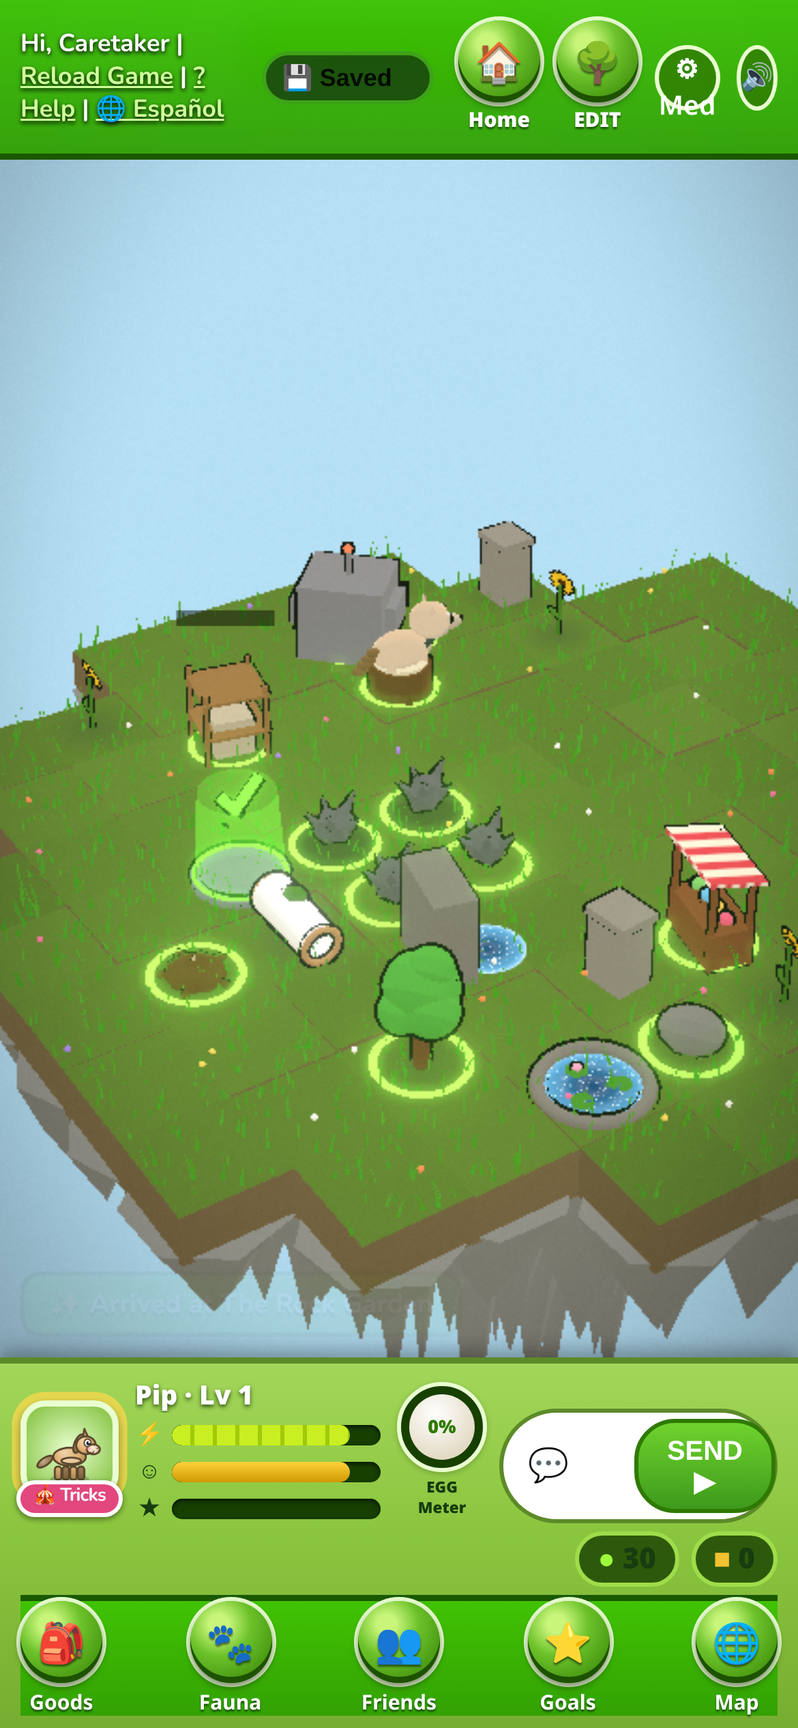
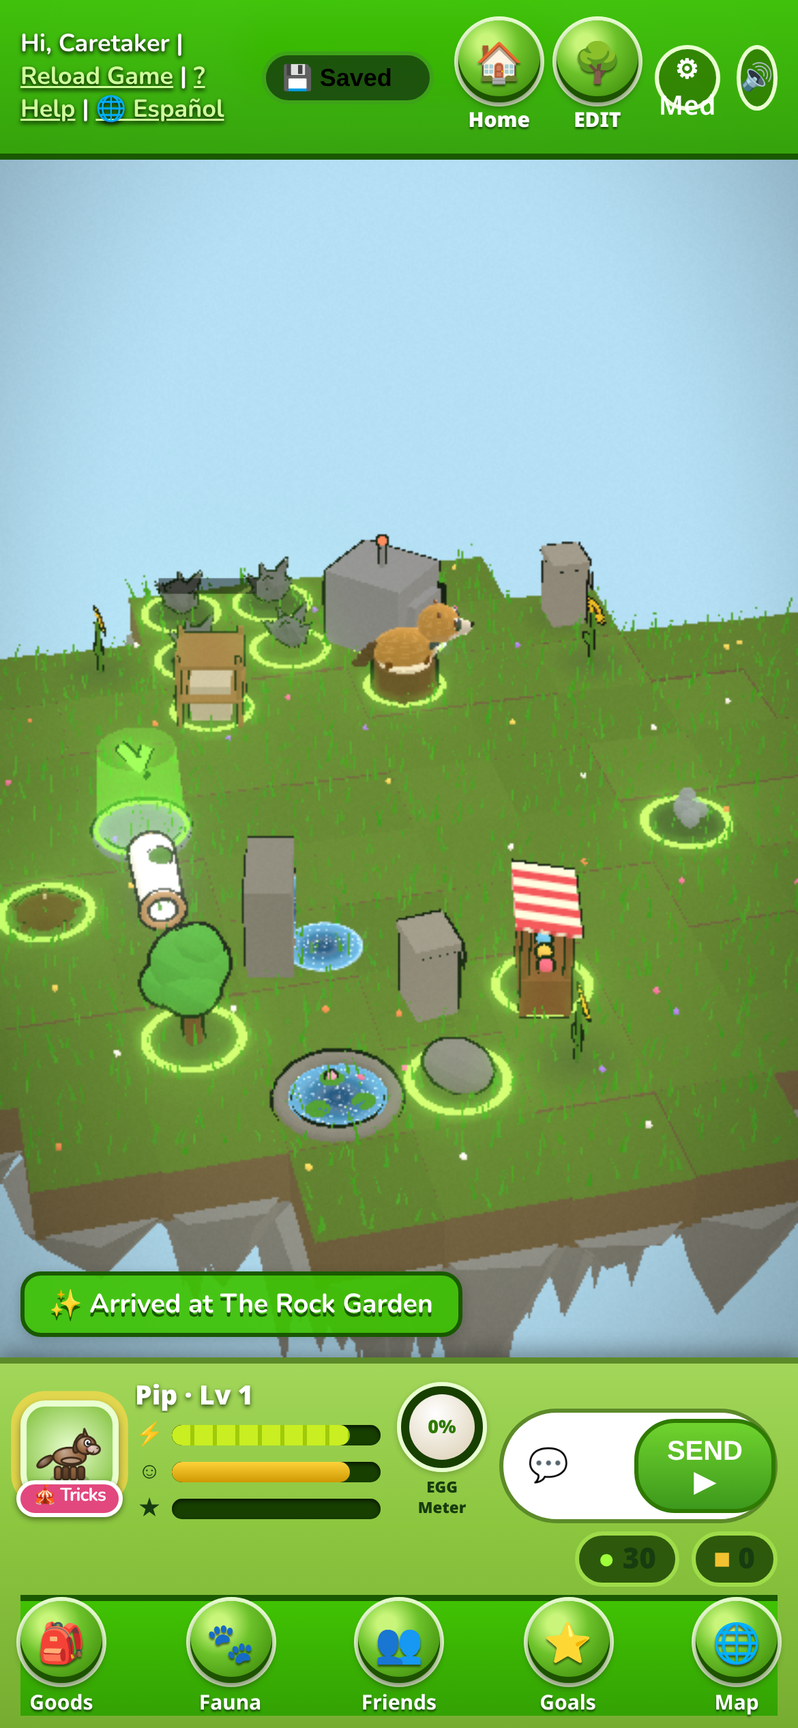
v6.0: realistic worlds inc1 (home+Rock Garden), High/Low graphics, wider home camera; sw fs-v6-1

diff --git a/world6.js b/world6.js
@@ -1,0 +1,73 @@
+// v6 realistic worlds (High graphics only). Home + Rock Garden first. Code-drawn textures only.
+import * as THREE from 'three';
+const G=window,W=G.W6,ON={home:1,rockgarden:1};
+if(W&&G.REAL){
+const {scene,QP,U}=W,hi=(G.GL&&G.GL.Q)==='high';
+const cvs=(w,h,f)=>{const c=document.createElement('canvas');c.width=w;c.height=h;f(c.getContext('2d'),w,h);const t=new THREE.CanvasTexture(c);t.colorSpace=THREE.SRGBColorSpace;t.anisotropy=4;return t};
+let rs=1;const rnd=()=>{rs=(rs*16807)%2147483647;return(rs-1)/2147483646};
+// --- textures ---
+const strata=cvs(256,128,(x,w,h)=>{for(let y=0;y<h;y++){const b=Math.sin(y*.21)*.5+Math.sin(y*.07+1)*.5;const l=38+b*9+(y<10?-6:0);x.fillStyle=`hsl(${26+b*6},${30-y*.08}%,${l-y*.06}%)`;x.fillRect(0,y,w,1)}
+ for(let k=0;k<900;k++){const px=Math.random()*w,py=Math.random()*h,r=.5+Math.random()*2.6;x.fillStyle=`hsla(30,12%,${30+Math.random()*40}%,.55)`;x.beginPath();x.ellipse(px,py,r*1.6,r,0,0,7);x.fill()}
+ x.fillStyle='rgba(70,120,40,.9)';for(let px=0;px<w;px+=2){x.fillRect(px,0,2,4+Math.random()*7)}
+ x.strokeStyle='rgba(60,40,25,.5)';for(let k=0;k<14;k++){x.beginPath();let px=Math.random()*w;x.moveTo(px,8);for(let py=8;py<40;py+=6){px+=Math.random()*6-3;x.lineTo(px,py)}x.stroke()}});
+strata.wrapS=strata.wrapT=THREE.RepeatWrapping;
+const rockTex=cvs(128,128,(x,w,h)=>{x.fillStyle='#8a8478';x.fillRect(0,0,w,h);for(let k=0;k<1500;k++){x.fillStyle=`hsla(${30+Math.random()*20},8%,${35+Math.random()*40}%,.35)`;x.fillRect(Math.random()*w,Math.random()*h,1+Math.random()*4,1+Math.random()*3)}
+ x.fillStyle='rgba(90,130,60,.35)';for(let k=0;k<60;k++){x.beginPath();x.arc(Math.random()*w,Math.random()*h*.4,2+Math.random()*5,0,7);x.fill()}});
+const bark=cvs(64,128,(x,w,h)=>{x.fillStyle='#5a4130';x.fillRect(0,0,w,h);for(let k=0;k<40;k++){x.strokeStyle=`hsla(25,25%,${15+Math.random()*25}%,.8)`;x.lineWidth=1+Math.random()*2;x.beginPath();let px=Math.random()*w;x.moveTo(px,0);for(let py=0;py<=h;py+=8){px+=Math.random()*4-2;x.lineTo(px,py)}x.stroke()}});
+const leaf=(hu)=>cvs(128,128,(x,w,h)=>{for(let k=0;k<700;k++){const px=Math.random()*w,py=Math.random()*h;x.fillStyle=`hsl(${hu+Math.random()*22},${45+Math.random()*25}%,${18+Math.random()*30+(1-py/h)*12}%)`;x.save();x.translate(px,py);x.rotate(Math.random()*6);x.beginPath();x.ellipse(0,0,5,2.4,0,0,7);x.fill();x.restore()}});
+const flowerTex=(pc,cc,np)=>cvs(64,128,(x,w,h)=>{x.strokeStyle='#3f7a2c';x.lineWidth=3;x.beginPath();x.moveTo(32,128);x.quadraticCurveTo(28,80,32,40);x.stroke();x.fillStyle='#4f8f34';x.beginPath();x.ellipse(24,92,9,4,-.6,0,7);x.fill();x.beginPath();x.ellipse(40,76,9,4,.6,0,7);x.fill();
+ for(let k=0;k<np;k++){const a=k/np*6.283;x.save();x.translate(32,34);x.rotate(a);const g=x.createLinearGradient(0,0,0,-20);g.addColorStop(0,cc);g.addColorStop(.25,pc);g.addColorStop(1,pc);x.fillStyle=g;x.beginPath();x.ellipse(0,-11,6,12,0,0,7);x.fill();x.restore()}
+ x.fillStyle=cc;x.beginPath();x.arc(32,34,5,0,7);x.fill();x.fillStyle='rgba(0,0,0,.2)';for(let k=0;k<6;k++)x.fillRect(29+Math.random()*6,31+Math.random()*6,1,1)});
+const turf=r=>cvs(128,128,(x,w,h)=>{x.fillStyle=r?'#7f8a52':'#5f8f3a';x.fillRect(0,0,w,h);for(let k=0;k<2500;k++){x.fillStyle=`hsl(${(r?60:85)+Math.random()*30},${35+Math.random()*25}%,${28+Math.random()*28}%)`;x.fillRect(Math.random()*w,Math.random()*h,1,2+Math.random()*3)}if(r){for(let k=0;k<50;k++){x.fillStyle=`hsl(35,10%,${50+Math.random()*25}%)`;x.beginPath();x.arc(Math.random()*w,Math.random()*h,1+Math.random()*2.5,0,7);x.fill()}}});
+const FT=[flowerTex('#ffd94a','#c9761a',12),flowerTex('#ff86b8','#ffe08a',6),flowerTex('#fbfbff','#f2c230',14),flowerTex('#a98bff','#fff1a0',5)];
+const cloudTex=cvs(256,128,(x,w,h)=>{for(let k=0;k<26;k++){const px=40+Math.random()*176,py=60+Math.random()*30-(Math.abs(px-128)<60?15:0),r=18+Math.random()*26;const g=x.createRadialGradient(px,py,0,px,py,r);g.addColorStop(0,'rgba(255,255,255,.85)');g.addColorStop(1,'rgba(255,255,255,0)');x.fillStyle=g;x.fillRect(0,0,w,h)}});
+const mtnTex=cvs(1024,128,(x,w,h)=>{const L=[[ '#9fb4cc',30,.45],['#7f97b3',55,.62],['#6d8a86',80,.8]];L.forEach(([c,base,amp],li)=>{x.fillStyle=c;x.beginPath();x.moveTo(0,h);for(let px=0;px<=w;px+=4){const y=base+Math.sin(px*.012+li*2)*18*amp+Math.sin(px*.041+li)*9*amp+Math.abs(Math.sin(px*.006+li*3))*-26*amp;x.lineTo(px,y)}x.lineTo(w,h);x.fill()});
+ const g=x.createLinearGradient(0,0,0,h);g.addColorStop(0,'rgba(220,234,245,0)');g.addColorStop(1,'rgba(220,234,245,.55)');x.fillStyle=g;x.fillRect(0,0,w,h)});
+mtnTex.wrapS=THREE.RepeatWrapping;mtnTex.repeat.x=3;
+// --- sky dressing (persistent) ---
+const skyG=new THREE.Group();scene.add(skyG);
+const mtn=new THREE.Mesh(new THREE.CylinderGeometry(170,170,60,48,1,true),new THREE.MeshBasicMaterial({map:mtnTex,transparent:true,side:THREE.BackSide,fog:false,depthWrite:false}));mtn.position.y=-14;skyG.add(mtn);
+const clouds=[];for(let k=0;k<(hi?14:9);k++){const sp=new THREE.Sprite(new THREE.SpriteMaterial({map:cloudTex,transparent:true,fog:false,depthWrite:false,opacity:.85}));const a=k/14*6.283+rnd(),r=110+rnd()*40;sp.position.set(Math.cos(a)*r,18+rnd()*28,Math.sin(a)*r);const s=34+rnd()*30;sp.scale.set(s,s*.5,1);sp.userData.a=a;sp.userData.r=r;skyG.add(sp);clouds.push(sp)}
+skyG.visible=false;
+(function tick(){requestAnimationFrame(tick);if(!skyG.visible)return;const cp=W.camera.position,d=cp.length();skyG.position.set(cp.x,0,cp.z);if(W.sky)W.sky.position.copy(cp);if(W.camera.far<d+300){W.camera.far=d+300;W.camera.updateProjectionMatrix()}if(scene.fog&&scene.fog.isFog){scene.fog.near=d*1.05;scene.fog.far=d*2.6+40}const t=U.time.value*.004;clouds.forEach(c=>{const a=c.userData.a+t;c.position.x=Math.cos(a)*c.userData.r;c.position.z=Math.sin(a)*c.userData.r})})();
+const nr=v=>{v.raycast=()=>{};return v};
+G.W6env=(z,nt)=>{const on=!!ON[z.id||G.S?.zone];skyG.visible=on;if(!on)return;const day=1-Math.min(1,nt||0);
+ const top=new THREE.Color(0x4f8fd8).lerp(new THREE.Color(0x0d1630),1-day),hor=new THREE.Color(z.id==='rockgarden'?0xc4d6e2:0xa9cbe9).lerp(new THREE.Color(0x2a3350),1-day);
+ if(W.su){W.su.uTop&&W.su.uTop.value.copy(top);W.su.uHor&&W.su.uHor.value.copy(hor)}
+ scene.background=hor.clone();if(scene.fog)scene.fog.color.copy(hor);
+ if(W.sun){W.sun.color.set(0xfff1d6).lerp(new THREE.Color(0x8090c0),1-day);W.sun.intensity=Math.max(W.sun.intensity,2.2*day+.4)}
+ if(W.hemi){W.hemi.color.set(0xbfdcff);W.hemi.groundColor.set(0x6b5a3a);W.hemi.intensity=.5+.8*day}
+ mtn.material.color.setScalar(.35+.65*day);clouds.forEach(c=>c.material.color.setScalar(.3+.7*day))};
+// --- island dressing ---
+G.W6build=zid=>{const isl=W.island,on=!!ON[zid];skyG.visible=on;if(!on)return;const s=G.zs(zid),n=W.N0,C0=W.C0,tiles=[];for(let i=0;i<n;i++)for(let j=0;j<n;j++)if(s.tiles[i][j])tiles.push([i,j]);
+ rs=7+zid.length*13;const rock=zid==='rockgarden';
+ // hide old blade grass + sphere flowers, re-skin ground sides and stalactites
+ isl.children.forEach(o=>{const t=o.geometry&&o.geometry.type;if(o.isInstancedMesh&&(t==='PlaneGeometry'||t==='SphereGeometry'))o.visible=false;
+  if(o.userData.ground&&Array.isArray(o.material)){const sm=new THREE.MeshStandardMaterial({map:strata,roughness:.97,color:rock?0xd8d0c4:0xffffff});o.material=[sm,sm,o.material[2],sm,sm,sm];o.material[2]=new THREE.MeshStandardMaterial({map:turf(rock),roughness:.95})}
+  if(t==='ConeGeometry'){o.material=new THREE.MeshStandardMaterial({map:rockTex,roughness:1,color:rock?0xbab2a6:0x9a8a78})}});
+ const m4=new THREE.Matrix4(),q=new THREE.Quaternion(),e=new THREE.Euler(),p=new THREE.Vector3(),sc=new THREE.Vector3(),col=new THREE.Color();
+ // grass: tapered, bent blades with base->tip gradient, crossed clumps, wind
+ const bg=new THREE.PlaneGeometry(.05,.26,1,4);bg.translate(0,.13,0);const pa=bg.attributes.position,cc=[];for(let k=0;k<pa.count;k++){const y=pa.getY(k)/.26;pa.setX(k,pa.getX(k)*(1-y*.92));pa.setZ(k,y*y*.06);const l=.6+.4*y;cc.push(l*.8,l,l*.72)}bg.setAttribute('color',new THREE.Float32BufferAttribute(cc,3));{const na=bg.attributes.normal;for(let k=0;k<na.count;k++)na.setXYZ(k,0,1,0)}
+ const gm=W.windify(new THREE.MeshStandardMaterial({vertexColors:true,roughness:.85,side:THREE.DoubleSide}),.07,.26);
+ const per=(hi?60:34)*(rock?.45:1),cnt=Math.min(hi?16000:8000,Math.floor(tiles.length*per));const gi=nr(new THREE.InstancedMesh(bg,gm,cnt));
+ for(let k=0;k<cnt;k++){const[i,j]=tiles[k%tiles.length];p.set(i-C0+rnd()-.5,0,j-C0+rnd()-.5);e.set((rnd()-.5)*.35,rnd()*6.28,(rnd()-.5)*.35);q.setFromEuler(e);const h=.55+rnd()*.9;sc.set(.8+rnd()*.6,h,1);m4.compose(p,q,sc);gi.setMatrixAt(k,m4);
+  const v=rnd();col.setHSL(rock?.17+v*.06:.22+v*.08,rock?.4:.55+rnd()*.15,.5+rnd()*.16+(v>.93?.12:0));gi.setColorAt(k,col)}
+ gi.receiveShadow=!!QP.shadow;isl.add(gi);
+ // flowers: crossed billboards, 4 species
+ const fq=new THREE.PlaneGeometry(.16,.32);fq.translate(0,.16,0);const fq2=fq.clone().rotateY(Math.PI/2);const fx=new THREE.BufferGeometry();
+ {const a=fq.toNonIndexed(),b=fq2.toNonIndexed();['position','normal','uv'].forEach(nm=>{const A=a.attributes[nm],B=b.attributes[nm],arr=new Float32Array(A.array.length+B.array.length);arr.set(A.array);arr.set(B.array,A.array.length);fx.setAttribute(nm,new THREE.BufferAttribute(arr,A.itemSize))})}
+ const fper=rock?.8:2.4;FT.forEach((tx,f)=>{const c=Math.min(hi?500:260,Math.floor(tiles.length*fper/4));const fm=W.windify(new THREE.MeshStandardMaterial({map:tx,alphaTest:.5,side:THREE.DoubleSide,roughness:.7}),.05,.32);const fi=nr(new THREE.InstancedMesh(fx,fm,c));
+  for(let k=0;k<c;k++){const[i,j]=tiles[Math.floor(rnd()*tiles.length)];p.set(i-C0+rnd()*.9-.45,0,j-C0+rnd()*.9-.45);e.set(0,rnd()*3,0);q.setFromEuler(e);const sz=.7+rnd()*.6;sc.set(sz,sz,sz);m4.compose(p,q,sc);fi.setMatrixAt(k,m4)}isl.add(fi)});
+ // trees on free rim tiles; boulders in the Rock Garden
+ const occ=new Set();(s.objs||[]).forEach(o=>occ.add(o.i+','+o.j));(s.decor||[]).forEach(o=>occ.add(o.i+','+o.j));
+ const TS=new Set(tiles.map(t=>t[0]+','+t[1]));const rim=tiles.filter(([i,j])=>!occ.has(i+','+j)&&[[1,0],[-1,0],[0,1],[0,-1]].some(([a,b])=>!TS.has((i+a)+','+(j+b))));
+ const nT=Math.min(rim.length,rock?3:Math.max(4,Math.round(n*.6)));const barkM=new THREE.MeshStandardMaterial({map:bark,roughness:.95}),leafM=new THREE.MeshStandardMaterial({map:leaf(rock?95:88),roughness:.9}),stoneM=new THREE.MeshStandardMaterial({map:rockTex,roughness:.95});
+ const blob=(r,d)=>{const g=new THREE.IcosahedronGeometry(r,d),a=g.attributes.position;for(let k=0;k<a.count;k++){const v=new THREE.Vector3().fromBufferAttribute(a,k);const f=1+(Math.sin(v.x*9+v.y*7)*.08+Math.sin(v.z*11-v.y*5)*.07);a.setXYZ(k,v.x*f,v.y*f*.85,v.z*f)}g.computeVertexNormals();return g};
+ const step=Math.max(1,Math.floor(rim.length/Math.max(1,nT)));for(let t=0;t<nT;t++){const[i,j]=rim[(t*step+3)%rim.length];const tr=new THREE.Group();tr.position.set(i-C0,0,j-C0);const H=1.1+rnd()*.6;
+  const tk=new THREE.Mesh(new THREE.CylinderGeometry(.06,.11,H,7),barkM);tk.position.y=H/2;tr.add(tk);
+  for(let b=0;b<6;b++){const r=.32+rnd()*.22,lf=new THREE.Mesh(blob(r,1),leafM);const a=b/6*6.28;lf.position.set(Math.cos(a)*.25*(b?1:0),H+(b?rnd()*.3-.1:.25),Math.sin(a)*.25*(b?1:0));lf.castShadow=!!QP.shadow;tr.add(lf)}
+  tk.castShadow=!!QP.shadow;tr.scale.setScalar(.8+rnd()*.3);tr.traverse(nr);isl.add(tr)}
+ if(rock){const nb=Math.min(rim.length,8);for(let b=0;b<nb;b++){const[i,j]=rim[(b*5+1)%rim.length];const m=nr(new THREE.Mesh(blob(.18+rnd()*.14,1),stoneM));m.position.set(i-C0+rnd()*.5-.25,.06,j-C0+rnd()*.5-.25);m.rotation.y=rnd()*6;m.castShadow=!!QP.shadow;m.receiveShadow=true;isl.add(m)}}
+};
+if(W.zone)try{G.W6build(W.zone)}catch(e){console.warn(e)}
+}

diff --git a/gl.js b/gl.js
@@ -10,6 +10,10 @@ const G=window, QS=new URLSearchParams(location.search);
 // ---------- quality ----------
 const isPhone=matchMedia('(pointer:coarse)').matches||innerWidth<700;
 let Q=QS.get('q')||localStorage.getItem('fs_q')||(isPhone?'med':'high');if(!['low','med','high'].includes(Q))Q='med';
+// v6 graphics High/Low (localStorage fs_gfx6; not part of the save). Auto: Low on slow phones.
+const GFX=(()=>{let g=QS.get('gfx')||localStorage.getItem('fs_gfx6');if(g!=='high'&&g!=='low'){const hc=navigator.hardwareConcurrency||8,dm=navigator.deviceMemory||8;g=(hc<=4||dm<=3)?'low':'high';localStorage.setItem('fs_gfx6',g);localStorage.setItem('fs_gfx6_auto','1')}return g})();
+if(GFX==='low')Q='low';else if(Q==='low'&&!QS.get('q'))Q=isPhone?'med':'high';
+const REAL=G.REAL=GFX==='high';
 const QP={low:{pr:1,shadow:0,grass:900,bloom:0,post:0,tex:128,weather:120},med:{pr:1.5,shadow:1024,grass:2600,bloom:1,post:0,tex:256,weather:220},high:{pr:2,shadow:2048,grass:6000,bloom:1,post:1,tex:512,weather:380}}[Q];
 
 // ---------- renderer ----------
@@ -131,7 +135,7 @@ function buildIsland(zid){scene.remove(island);island.traverse(o=>{if(o.geometry
  // snow sparkle / pebbles for others
  if(z.biome==='arctic'||z.biome==='scorch'||z.biome==='dungeon'){const pg=new THREE.DodecahedronGeometry(.05,0);const pm=new THREE.MeshStandardMaterial({color:z.biome==='arctic'?0xe8f4ff:z.biome==='scorch'?0xb98a55:0x6b6578,roughness:.9,flatShading:true});const c=tiles.length*3;const pi=new THREE.InstancedMesh(pg,pm,c);
   for(let k=0;k<c;k++){const[i,j]=tiles[k%tiles.length];q.setFromEuler(new THREE.Euler(Math.random()*3,Math.random()*3,0));const s2=.5+Math.random()*1.4;sc.set(s2,s2*.6,s2);p.set(i-C0+(Math.random()-.5)*.9,.01,j-C0+(Math.random()-.5)*.9);m4.compose(p,q,sc);pi.setMatrixAt(k,m4)}pi.receiveShadow=true;island.add(pi)}
- builtZone=zid}
+ builtZone=zid;if(G.W6build)try{G.W6build(zid)}catch(e){console.warn('w6',e)}}
 
 // ---------- water shader ----------
 const waterMat=()=>new THREE.ShaderMaterial({transparent:true,uniforms:{uTime:U.time,uCol:{value:new THREE.Color(0x3aa7e0)},uDeep:{value:new THREE.Color(0x0d4f86)}},
@@ -438,8 +442,8 @@ let W=1,H=1;function size(){const r=stage.getBoundingClientRect();W=Math.max(1,r
 addEventListener('resize',size);size();
 const fpos=new THREE.Vector3();
 function updCamera(dt,t){const n=N0||9,asp=W/H,fov=camera.fov*Math.PI/180;
- const fit=(n*.55)/Math.tan(fov/2)/Math.min(1.25,Math.max(.55,asp));let dist=fit/(cam.zoom||1);const portrait=asp<.8;if(portrait)dist=Math.min(dist,n*(typeof S!=="undefined"&&S.zone==="home"?4.4:2.1)/(cam.zoom||1));
- const follow=portrait?1:clamp((cam.zoom-1)/.8,0,1);const tgt=new THREE.Vector3().lerpVectors(new THREE.Vector3(0,0,0),fpos,follow);tgt.y=.15;const EC=G.editCam;if(EC&&S.zone==='home'){tgt.set(EC.x,.15,EC.z);dist=n*3.8/(EC.zoom||1);if(camS.dist!=null){camS.dist=dist;camS.t.copy(tgt)}}
+ const fit=(n*.55)/Math.tan(fov/2)/Math.min(1.25,Math.max(.55,asp));let dist=fit/(cam.zoom||1);const portrait=asp<.8;if(portrait)dist=Math.min(dist,n*(typeof S!=="undefined"&&S.zone==="home"?4.4:2.1)/(cam.zoom||1));const HW=portrait&&typeof S!=="undefined"&&S.zone==="home";if(HW)dist*=1.3;
+ const follow=portrait?(HW?.55:1):clamp((cam.zoom-1)/.8,0,1);const tgt=new THREE.Vector3().lerpVectors(new THREE.Vector3(0,0,0),fpos,follow);tgt.y=.15;const EC=G.editCam;if(EC&&S.zone==='home'){tgt.set(EC.x,.15,EC.z);dist=n*3.8/(EC.zoom||1);if(camS.dist!=null){camS.dist=dist;camS.t.copy(tgt)}}
  if(camS.dist===null){camS.dist=dist;camS.t.copy(tgt)}camS.dist+=(dist-camS.dist)*.08;camS.t.lerp(tgt,.06);
  let yaw=camS.yaw,pitch=camS.pitch,d=camS.dist;if((titleOn||!fa())&&!(G.editCam&&S.zone==="home")){yaw+=t*.12;d*=1.15;pitch=.55}
  const k=Math.cos(pitch)*d;camera.position.set(camS.t.x+Math.sin(yaw)*k,camS.t.y+Math.sin(pitch)*d,camS.t.z+Math.cos(yaw)*k);
@@ -488,7 +492,7 @@ function applyEnv(z,nt){const pal=(window.ZPAL&&ZPAL[z.id])||BIOMES[z.biome],dun
  if(!dun&&!(window.ZPAL&&ZPAL[z.id])&&!['candy','scorch','mesa','swamp'].includes(z.biome)){const bt=new THREE.Color(0xa9dcff).lerp(new THREE.Color(pal[5]),.35).lerp(new THREE.Color(0x0a1028),nt*.9);scene.background=bt;scene.fog.color.copy(bt)}
  stars.material.opacity=dun?0:clamp((nt-.3)*1.4,0,1);moon.visible=nt>.6&&!dun;R.toneMappingExposure=dun?1.1:THREE.MathUtils.lerp(.95,1.15,nt);
  if(bloom)bloom.strength=dun||nt>.5?.6:.3;
- setWeather({sea:'bubble',mesa:'dust',candy:'firefly',arctic:'snow',swamp:'bubble',forest:'leaf',scorch:'ember',dungeon:'dust'}[z.biome]||(nt>.5?'firefly':null))}
+ setWeather({sea:'bubble',mesa:'dust',candy:'firefly',arctic:'snow',swamp:'bubble',forest:'leaf',scorch:'ember',dungeon:'dust'}[z.biome]||(nt>.5?'firefly':null));if(G.W6env)try{G.W6env(z,nt)}catch(e){console.warn('w6env',e)}}
 function frame(){const tn=performance.now(),dt=Math.min(.1,(tn-lastT)/1000);lastT=tn;const t=(tn-clock0)/1000;U.time.value=t;
  const f=fa();if(!f)return;const z=Z(S.zone),nt=z.biome==='dungeon'?0:z.biome==='night'?1:nightA();
  if(S.zone!==curZone){curZone=S.zone;clearObjs();buildIsland(S.zone);camS.dist=null;applyEnv(z,nt);pv.length=0}
@@ -556,13 +560,14 @@ function overlay(t,fade){const D=Math.min(2,devicePixelRatio||1);if(cv.width!==M
  if(!finalPass){/* cheap vignette on low/med */const vg=ctx2.createRadialGradient(W/2,H/2,Math.min(W,H)*.35,W/2,H/2,Math.max(W,H)*.75);vg.addColorStop(0,'#0000');vg.addColorStop(1,'#00000040');ctx2.fillStyle=vg;ctx2.fillRect(0,0,W,H)}}
 // title-screen backdrop: render home island even before adoption
 G.rebuildIsland=()=>{curZone=null};G.draw=frame;
+G.W6={scene,camera,sun,hemi,su,sky,U,R,QP,get island(){return island},get N0(){return N0},get C0(){return C0},get zone(){return builtZone},hsh,fbm,vnoise,windify,get camDist(){return camS.dist}};
 G.GL={Q,sky,su,scene,setQuality(q){localStorage.setItem('fs_q',q);location.reload()},get fps(){return G.GLfps},renderer:R};
 // keep rendering behind the adopt/title screens when no fauna yet
 (function idle(){if(!fa()){try{const z=Z(S.zone);if(curZone!==S.zone){curZone=S.zone;zs(S.zone);buildIsland(S.zone);applyEnv(z,0);camS.dist=null}syncObjs();U.time.value=performance.now()/1000;updCamera(.016,U.time.value);composer?composer.render():R.render(scene,camera)}catch(e){console.error(e)}}requestAnimationFrame(idle)})();
 // ---------- title screen & settings ----------
 const title=document.getElementById('title');
 if(title&&!QS.has('notitle')){titleOn=true;title.classList.remove('hidden');document.getElementById('play').onclick=()=>{Sound.init();Sound.sfx&&Sound.sfx('gate');vib(20);title.classList.add('out');titleOn=false;camS.dist=null;setTimeout(()=>title.remove(),900)}}else if(title)title.remove();
-const qb=document.getElementById('gfx');if(qb){qb.textContent='⚙ '+Q[0].toUpperCase()+Q.slice(1);qb.onclick=()=>{const n={low:'med',med:'high',high:'low'}[Q];G.GL.setQuality(n)}}
+const qb=document.getElementById('gfx');if(qb){qb.textContent='⚙ '+(GFX==='high'?'High':'Low');qb.title='Graphics: High / Low';qb.onclick=()=>{try{save()}catch(e){}localStorage.setItem('fs_gfx6',GFX==='high'?'low':'high');localStorage.removeItem('fs_gfx6_auto');localStorage.removeItem('fs_q');location.reload()}}
 const ld=document.getElementById('loading');if(ld){ld.classList.add('out');setTimeout(()=>ld.remove(),700)}
 console.log('[FaunaMySphere] WebGL renderer active, quality='+Q);
 
@@ -576,7 +581,7 @@ function toonOf(m){if(!m||m.userData.toon||m.isShaderMaterial||m.isMeshBasicMate
  if(m.userData.flat)t.color.set(m.userData.flat);
  if(m.onBeforeCompile&&String(m.onBeforeCompile).includes('uTime'))t.onBeforeCompile=m.onBeforeCompile;
  t.userData.toon=1;return t}
-function toonify(root){root.traverse(o=>{if(!o.isMesh||o.userData.outline||o.userData.noToon)return;
+function toonify(root){if(REAL&&root===scene){scene.children.forEach(c=>{if(c.userData.rig||c.userData.fauna||c.children.some(k=>k.userData&&k.userData.rig))toonify(c)});return}root.traverse(o=>{if(!o.isMesh||o.userData.outline||o.userData.noToon)return;
  if(Array.isArray(o.material))o.material=o.material.map(toonOf);else o.material=toonOf(o.material);
  o.castShadow=false;
  if(!o.userData.ol&&!o.isInstancedMesh&&o.geometry&&o.geometry.attributes.normal&&!(o.material&&o.material.transparent)&&o.geometry.type!=='PlaneGeometry'&&o.geometry.type!=='CircleGeometry'&&o.geometry.type!=='RingGeometry'){

diff --git a/index.html b/index.html
@@ -37,5 +37,5 @@
 <script src="content22.js"></script>
 <script src="unlock.js"></script><script src="vendor/peerjs.min.js"></script><script src="vendor/nostr.bundle.js"></script><script src="net.js"></script><script src="safety.js"></script><script src="tricks2.js"></script><script src="gift.js"></script><script src="fauna2.js"></script><script src="rarity.js"></script>
 <script type="importmap">{"imports":{"three":"./vendor/three/three.module.min.js"}}</script>
-<script type="module" src="gl.js"></script><script>(function(){const tips=["Take a luxurious spa vacation in the magical mud of the Rejuvenating Marsh. Relax, restore, and turn mud into beauty!","Earning Lux fills your Egg Meter. Fill it up to level up and lay an egg!","Each species has its own gathering ability. Hoofers kick trees, Sniffers lift rocks, Scooters dive.","Ripe things glow green. Red means not yet, or not for this fauna.","Your zapper collar glows brighter as your fauna levels up."],st=["Signing in…","Loading resources…","Processing resources…","Waiting for world…"];const t=document.getElementById('ltip');if(t)t.textContent='Tip: '+tips[Math.floor(Math.random()*tips.length)];let k=0;const iv=setInterval(()=>{const s=document.getElementById('lstat'),p=document.getElementById('lprog');if(!s){clearInterval(iv);return}k++;s.textContent=st[Math.min(3,k>>1)];p.style.width=Math.min(95,k*12)+'%'},250)})()</script>
+<script type="module" src="gl.js"></script><script type="module" src="world6.js"></script><script>(function(){const tips=["Take a luxurious spa vacation in the magical mud of the Rejuvenating Marsh. Relax, restore, and turn mud into beauty!","Earning Lux fills your Egg Meter. Fill it up to level up and lay an egg!","Each species has its own gathering ability. Hoofers kick trees, Sniffers lift rocks, Scooters dive.","Ripe things glow green. Red means not yet, or not for this fauna.","Your zapper collar glows brighter as your fauna levels up."],st=["Signing in…","Loading resources…","Processing resources…","Waiting for world…"];const t=document.getElementById('ltip');if(t)t.textContent='Tip: '+tips[Math.floor(Math.random()*tips.length)];let k=0;const iv=setInterval(()=>{const s=document.getElementById('lstat'),p=document.getElementById('lprog');if(!s){clearInterval(iv);return}k++;s.textContent=st[Math.min(3,k>>1)];p.style.width=Math.min(95,k*12)+'%'},250)})()</script>
 </body></html>

diff --git a/sw.js b/sw.js
@@ -1,4 +1,4 @@
-const C='fs-v5-1',F=['./','index.html','style.css','data.js','audio.js','art.js','enemydmg.js','game.js','save.js','fshooks.js','zonepal.js','mech.js','content6.js','fun.js','content7.js','unlock.js','content8.js','content9.js','content10.js','content11.js','content12.js','content13.js','content14.js','content15.js','content16.js','content17.js','content18.js','content19.js','content20.js','content21.js','content22.js','savedb.js','v5.js','net.js','tricks2.js','gift.js','rarity.js','fauna2.js','safety.js','i18n.js','i18n_es.js','vendor/peerjs.min.js','gl.js','vendor/three/three.module.min.js','manifest.json','icon.svg','icon-192.png','icon-512.png','icon-maskable-512.png','apple-touch-icon.png'];
+const C='fs-v6-1',F=['./','index.html','style.css','data.js','audio.js','art.js','enemydmg.js','game.js','save.js','fshooks.js','zonepal.js','mech.js','content6.js','fun.js','content7.js','unlock.js','content8.js','content9.js','content10.js','content11.js','content12.js','content13.js','content14.js','content15.js','content16.js','content17.js','content18.js','content19.js','content20.js','content21.js','content22.js','savedb.js','v5.js','net.js','tricks2.js','gift.js','rarity.js','fauna2.js','safety.js','i18n.js','i18n_es.js','vendor/peerjs.min.js','gl.js','world6.js','vendor/three/three.module.min.js','manifest.json','icon.svg','icon-192.png','icon-512.png','icon-maskable-512.png','apple-touch-icon.png'];
 self.addEventListener('install',e=>{self.skipWaiting();e.waitUntil(caches.open(C).then(c=>c.addAll(F)).catch(()=>{}))});
 self.addEventListener('activate',e=>e.waitUntil(caches.keys().then(k=>Promise.all(k.filter(x=>x!==C).map(x=>caches.delete(x)))).then(()=>self.clients.claim())));
 // network-first so deploys show up immediately; cache fallback offline

diff --git a/RELEASES.md b/RELEASES.md
@@ -66,3 +66,9 @@ Rollup of everything from v4.15 to v4.24, retested in full on the live site in m
 - **Live EN/ES toggle** works both ways; **2-player multiplayer** verified live (room created and joined, both online, 1 peer each). No page errors.
 
 Screenshots: screenshots/v5_home_mobile.png, v5_travel_mobile.png, v5_destination_mobile.png, v5_store_mobile.png, v5_edithome_mobile.png, v5_homecustom_mobile.png, v5_roam_mobile.png, v5_migrated_live_mobile.png, v5_fence_preview_mobile.png, v5_fences_mobile.png, v5_lang_es_mobile.png, v5_mp_host_mobile.png, v5_mp_guest_mobile.png, v5_title_mobile.png, v5_tricks_badge_mobile.png, v5_tricks_wheel_mobile.png, v5_home_button_mobile.png, v5_edit_mode_mobile.png, v5_edit_select_mobile.png, v5_edit_drag_mobile.png, v5_edit_invalid_mobile.png, v5_edit_box_mobile.png.
+
+## v6.0 — Realistic worlds, increment 1 (home + Rock Garden)
+- New world6.js (High graphics only): wind-swaying grass with color variation, flowers (4 species), procedural trees on free edge tiles, boulders in the Rock Garden, rock-strata island sides, soft blue sky, drifting clouds, hazy mountain ring, natural sun/sky light, distance haze. The world has no outlines (fauna keep theirs).
+- ⚙ High/Low graphics toggle (stored per device in fs_gfx6, not in the save). Auto-detect picks Low on slow phones (≤4 cores or ≤3 GB).
+- Wider home camera on phones (1.3x, centered more on the island).
+- Saves untouched (faunasphere_save_v3).
